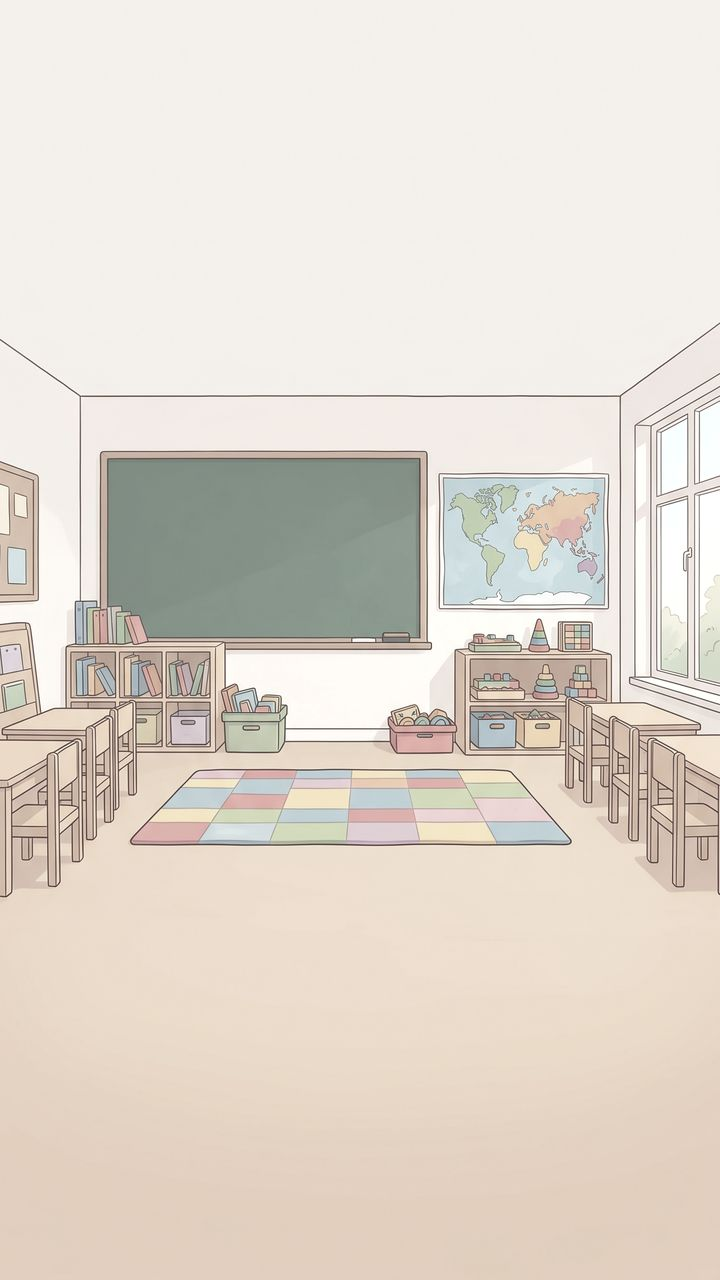
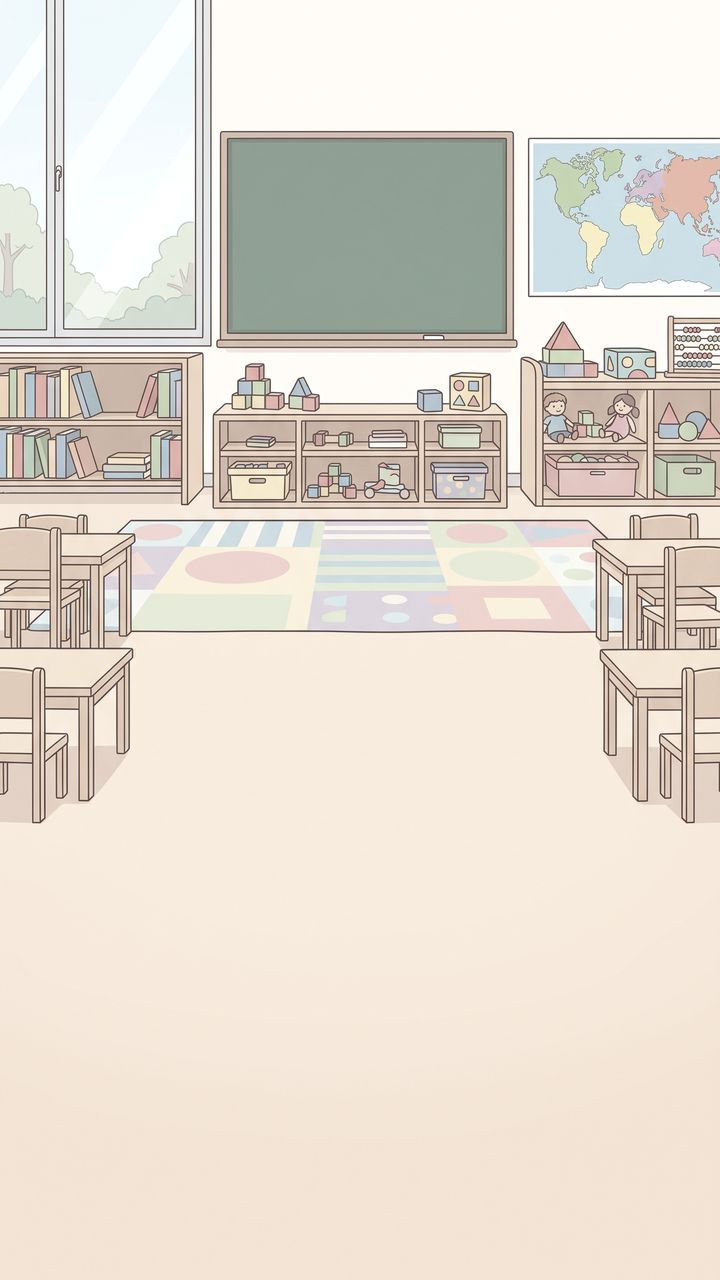
Dezesseis artes da pasta de downloads entram no jogo
Estavam soltas em Downloads com nome de Gemini. Identifiquei uma a uma,
renomeei e passei pelo pipeline. Passamos de 126 para 139 de 144.

O que mudou na tela:

- bg_sala_aula agora e uma sala de aula. O arquivo com esse nome era uma
  cozinha, e por isso as missoes 07, 08 e 09 aconteciam numa cozinha.
- as duas cenas da rua chegaram: o "pode ou nao pode" da missao 06 deixa
  de mostrar uma bola solta e uma faixa vazia e passa a mostrar a crianca
  correndo atras da bola e a crianca atravessando de mao dada.
- cinco capas de historinha, de seis.
- abajur, livro, sabonete, pente, nota musical e as duas criancas de maos
  dadas saem do emoji e viram desenho nas missoes 20, 22, 24, 25 e 26.
- a logo.

Duas imagens nao batiam com nada pedido e foram para _sem_nome em vez de
serem chutadas num nome qualquer: uma floresta de noite com os bichos e
uma segunda versao do medalhao da Janta.

diff --git a/tools/faltando.py b/tools/faltando.py
@@ -28,7 +28,6 @@ PEDIDAS_PELO_CODIGO = {
 
 # arte que existe mas esta errada: o arquivo nao falta, o desenho e que nao serve
 ERRADAS = {
-    "bg_sala_aula": "o arquivo com esse nome e uma cozinha (missoes 07, 08 e 09)",
     "olhos_grandes": "olho grande demais, fica assustado",
     "olhos_alegres": "olho fechado em arco le como bichinho",
     "corpo_base_pele_clara": "cabeca muito oval; refazer obriga a refazer as 6 roupas",

diff --git a/tools/preparar_assets.py b/tools/preparar_assets.py
@@ -288,6 +288,12 @@ FOLHAS = {
 # Pecas soltas: um arquivo cru, uma peca com o mesmo nome. Grade 1x1 pega a
 # caixa de tudo junto, para o objeto nao sair picado em varios pedacos.
 SOLTAS = [
+    "m19_luz",
+    "m19_historia",
+    "m24_sabonete",
+    "m25_pente",
+    "m26_musica",
+    "m10_amigos",
     "mundo5",
     "broche5",
     "m05_pente",
